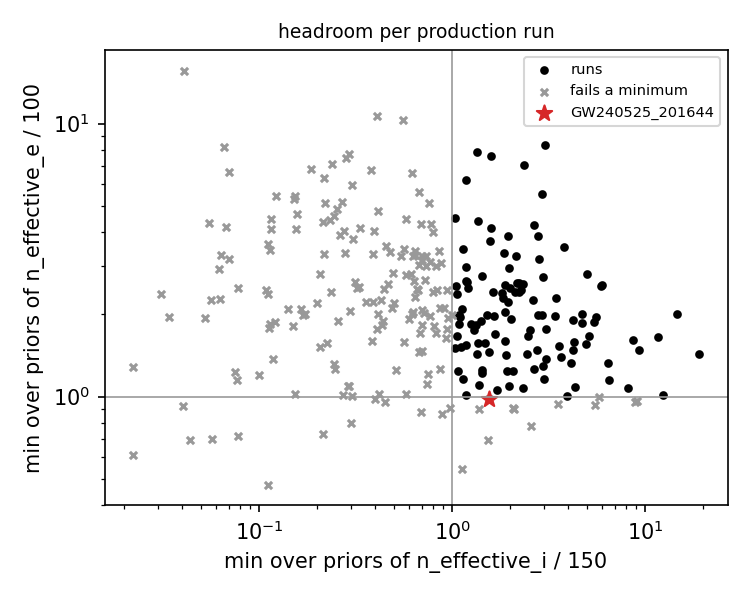
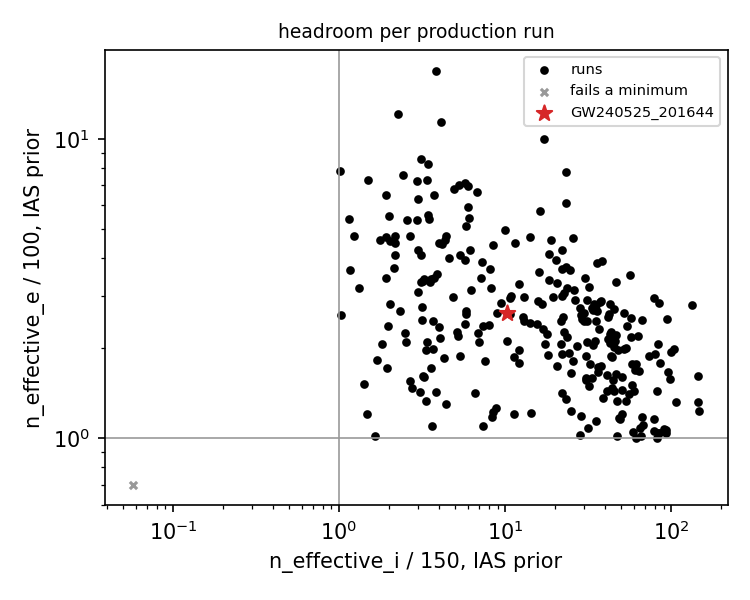
research: E2 report corrected, minima under the IAS prior only
Claude-Session: https://claude.ai/code/session_015Ha8CowgXaDTZuUXirm2SN

diff --git a/research/sample-headroom/2026-11-22_measurement.md b/research/sample-headroom/2026-11-22_measurement.md
@@ -1,48 +1,57 @@
 # How far fewer templates and fewer extrinsic samples could shrink dot-PE's rows
 
 This report measures how much room the production runs have to use fewer templates or fewer
-extrinsic samples, two ways to put fewer (intrinsic, extrinsic, phase) rows against dot-PE's row
-limit. Both are bounded by the minimum effective sample sizes the analysis demands, so the room
-is the factor by which those effective sample sizes exceed their minima.
+extrinsic samples, two ways to store fewer rows against dot-PE's limit on stored rows (rows and
+the limit are defined in Setup). Both are bounded by the minimum effective sample sizes the
+analysis demands, so the room is the factor by which those effective sample sizes exceed their
+minima.
 
-Code and data: the script ran on the login node on 2026-11-22 at 10:30, when branch `research`
-was at commit 96e02af (its `git log`; the run is logged in `research/progress.md`), and reads the
-production summaries of the 288 runs in o4b-pe-paper `dev/row_limit_check/row_limit.csv` (dot-PE
-commits as recorded per run in each paper repo's `docs/pe/dot_pe_versions.csv`). It supersedes
-no report.
+Code and data: `research/sample-headroom/headroom.py`, dot-PE branch `research`, commit 7d87c5d;
+it reads the production summaries of the 288 runs in o4b-pe-paper
+`dev/row_limit_check/row_limit.csv` (dot-PE commits as recorded per run in each paper repo's
+`docs/pe/dot_pe_versions.csv`). It supersedes the version of this report at commit
+[b4d7248](https://github.com/JonathanMushkin/dot-PE/blob/b4d7248/research/sample-headroom/2026-11-22_measurement.md).
 
 ## Question and answer
 
-The question: for each production run, what is H, the largest factor by which the rows could be
-reduced by fewer templates and fewer extrinsic samples while n_effective_i, the effective number
-of distinct templates, stays at least 150 and n_effective_e, the effective number of distinct
-extrinsic samples, at least 100, under both the IAS prior (dot-PE's production prior) and the
-LVK prior (the LVK spin and distance prior), if each scales in proportion to its number of
-samples?
+The question: for each production run, what is H, the largest factor by which its stored rows
+could be reduced by fewer templates and fewer extrinsic samples while n_effective_i, the effective
+number of distinct templates, stays at least 150 and n_effective_e, the effective number of
+distinct extrinsic samples, at least 100, under the IAS prior (dot-PE's production prior), if
+each scales in proportion to its number of samples? H and the other terms are defined in Setup.
 
-The answer: 175 of the 288 runs already fail one of the two minima and have no such room; for
-the other 113, H has a median of 4.7 (quartiles 2.7 and 7.7) and a maximum of 29.
+The answer: one of the 288 runs already fails a minimum; for the other 287, H has a median of 47
+(quartiles 15 and 86) and ranges from 1.7 to 375. Almost all of the room is in templates: the
+factor by which n_effective_i exceeds 150 (h_i) has median 19, the factor by which n_effective_e
+exceeds 100 (h_e) median 2.4. For GW240525_201644, H = 27, below R = 74, the factor by which its
+rows above the nominal cut exceed the row limit; 94 of the 287 runs have H ≥ 74.
 
 ## Setup
 
-A *row* is one (intrinsic, extrinsic, phase) combination; dot-PE keeps at most `size_limit` =
-1e7 rows. The IAS-prior values are read from each run's `summary_results.json`, the LVK-prior
-values from `summary_results_lvc.json` (present for all 288 runs). The minima 150 and 100 are
-`MIN_NEFF_I` and `MIN_NEFF_E` of o4b-pe-paper `src/o4a_pe_paper/pe_lib/failure_modes.py`.
+### Rows and the row limit
+
+A *row* is one (intrinsic, extrinsic, phase) combination: a template, an extrinsic sample (sky
+position, orientation, time), and one reference phase. For each row dot-PE computes b
+(`bestfit_lnlike`), its log-likelihood maximized over distance. dot-PE stores at most
+`size_limit` rows, those of highest b; every production run used `size_limit` = 1e7 (the code
+default is 1e6, `dot_pe/coherent_processing.py:35`). The *floor* is the lowest b among the stored rows.
 
 ### Effective sample sizes
 
-With p_r the normalized weight of row r, P_i the sum of p_r over the rows of template i and
-P_e over the rows of extrinsic sample e (`get_n_effective_total_i_e`,
-`dot_pe/base_sampler_free_sampling.py`),
+With p_r the posterior weight of row r under the IAS prior, normalized to sum to 1, P_t the sum
+of p_r over the rows of template t and P_x the sum over the rows of extrinsic sample x
+(`get_n_effective_total_i_e`, `dot_pe/base_sampler_free_sampling.py`),
 
-    n_effective_i = 1 / Σ_i P_i²,      n_effective_e = 1 / Σ_e P_e².
+    n_effective_i = 1 / Σ_t P_t²,      n_effective_e = 1 / Σ_x P_x².
+
+The values are read from each run's `summary_results.json`, the IAS-prior summary. The minima
+150 and 100 are `MIN_NEFF_I` and `MIN_NEFF_E` of o4b-pe-paper
+`src/o4a_pe_paper/pe_lib/failure_modes.py`, which applies them to the same file
+(`analyze_rundir`).
 
 ### Headroom ratios h_i and h_e
 
-With p running over the two priors,
-
-    h_i = min_p n_effective_i,p / 150,      h_e = min_p n_effective_e,p / 100.
+    h_i = n_effective_i / 150,      h_e = n_effective_e / 100.
 
 A run with h_i < 1 or h_e < 1 already fails a minimum.
 
@@ -54,15 +63,31 @@ For a run with h_i ≥ 1 and h_e ≥ 1,
 
 If n_effective_i scales in proportion to the number of templates and n_effective_e to the number
 of extrinsic samples, using h_i times fewer templates and h_e times fewer extrinsic samples
-reduces the rows by H and leaves both at their minima. Quoting H only for runs that pass both
-minima was decided after the results (`design.md`, design note of 2026-11-22 12:05); it does not
-change the definition.
+reduces the rows by H and leaves both at their minima. H is not defined for a run that fails a
+minimum (`design.md`, design note of 2026-11-22 12:05).
 
 ### Reduction needed, R
 
-For GW240525_201644 the rows above the nominal cut (its best fit over kept rows minus 20) number
-N̂(c) = 7.40e8 (E1, `research/rows-above-cut/2026-11-22_measurement.md`), so keeping all of
-them within `size_limit` needs a reduction R = N̂(c) / 1e7 = 74.
+The *nominal cut* c is the largest b over a run's stored rows minus 20: the rows dot-PE intends
+to keep are those with b ≥ c. For GW240525_201644, c = 16.379, and the estimated number of rows
+with b ≥ c is N̂(c) = 7.40e8 (measured in the report on rows above the cut,
+`research/rows-above-cut/2026-11-22_measurement.md`). Storing all of them within `size_limit`
+needs a reduction R = N̂(c) / 1e7 = 74. R is not measured for any other run.
+
+### Best-fit log-likelihood of a run
+
+Figure 2 orders runs by `bestfit_lnlike_max` of `summary_results.json`, the largest b over at most
+1e4 posterior draws (`dot_pe/inference.py:1568`, `:1590`). It is below the largest b over the
+stored rows (for GW240525_201644, 35.29 against 36.38; `research/progress.md`, 2026-11-22 10:27)
+and serves only to order runs by signal-to-noise ratio.
+
+### Choice of prior
+
+The minima are applied under the IAS prior only, as production does (`design.md`, design note of
+2026-11-23 06:52, made after the results on the user's decision that high effective sample sizes
+under the LVK prior are welcome but not a goal). Under the LVK prior (the LVK spin and distance
+prior, by reweighting) the effective sample sizes are lower: 175 runs fail a minimum there,
+174 of them only there.
 
 ## Results
 
@@ -70,40 +95,49 @@ How much headroom does each run have in n_effective_i and in n_effective_e?
 
 ![headroom ratios](review/fig1_headroom_i_e.png)
 
-Of the 288 runs, 163 have h_i < 1 (fewer than 150 effective templates under one prior), 25 have
-h_e < 1, and 13 both; 113 pass both. GW240525_201644 run_2 has h_i = 1.5 and h_e = 0.98: its
-n_effective_e under the LVK prior is 98.
+One run fails: GW241011_233834, with n_effective_i 8.6 and n_effective_e 70 (best-fit
+log-likelihood 628). The other 287 have h_i between 1.01 and 147 (median 19) and h_e between
+1.00 and 16.9 (median 2.4). Fewer extrinsic samples could therefore reduce the rows by a median
+factor of only 2.4; most of the room is in templates. GW240525_201644 has h_i = 10.2 and
+h_e = 2.6.
 
-What is H, the row reduction the minima allow, against the best-fit log-likelihood, the largest b
-over the posterior draws (`bestfit_lnlike_max`)?
+What is H against the best-fit log-likelihood, and how does it compare with the reduction
+GW240525_201644 needs?
 
 ![H against best fit](review/fig2_H_vs_best.png)
 
-For the 113 runs that pass both minima, H is between 1.2 and 29, median 4.7. Failing runs are
-drawn as grey crosses at max(1, h_i) × max(1, h_e), which is not a reduction they could make. GW240525_201644 fails the n_effective_e minimum, so it has no room; even
-the largest H of any run, 29, is below the R = 74 this event needs.
+H is largest at low signal-to-noise ratio: for best-fit log-likelihood below 50 its median is 70
+(64 of 137 runs have H ≥ 74), for 50 to 100 it is 36 (29 of 112), and above 100 it is 17 (1 of
+38). GW240525_201644 has H = 27, below its R = 74: under the proportional assumption, fewer
+samples alone cannot bring its stored rows down to the nominal cut.
+
+## Observations
+
+Not part of this measurement's chain: H is largest at low best-fit log-likelihood, and so is the
+posterior mass dot-PE's stored rows miss, as measured in another study. For each event the paper repos also have a reference posterior
+from cogwheel, a sampler that does not store a fixed number of rows. The median fraction of that
+posterior's mass at b below dot-PE's floor is 0.75 for best-fit log-likelihood 30 to 40, 0.10 for
+75 to 100 and 0 above 200 (o4b-pe-paper `dev/row_limit_check/HANDOFF_dotpe_row_limit.md`).
 
 ## Limitations
 
 - H assumes n_effective_i scales with the number of templates and n_effective_e with the number
-  of extrinsic samples. The
-  one test available contradicts it: GW240525_201644 with the first eighth of each bank had
-  n_effective_i 363 instead of 1535 under the IAS prior (4.2 times lower for 8 times fewer
-  templates) and n_effective_e 329 instead of 262, because the floor (the lowest kept b) moved
-  too (o4b-pe-paper `dev/row_limit_check/gw240525_runs.md`).
+  of extrinsic samples. The one test available does not follow it: GW240525_201644 with the
+  first eighth of each bank had n_effective_i 363 instead of 1535 (4.2 times lower for 8 times
+  fewer templates) and n_effective_e 329 instead of 262 (o4b-pe-paper
+  `dev/row_limit_check/gw240525_runs.md`). In that test the floor also moved down, from 24.35 to
+  21.19, because the same 1e7 rows were spread over fewer templates; the test therefore mixes
+  the effect of fewer templates with that of a lower floor. Taken at face value it suggests H
+  underestimates the room, but the direction is not established.
 - H multiplies h_i and h_e as if independent; the same test shows they are not.
+- R is measured for one event only, so whether any of the 94 runs with H ≥ 74 has enough room
+  for its own R is not known.
 - The summaries are read as they are on disk. Every `summary_results.json` was written after the
-  cross-bank n_effective fix (dot-PE 2403731, 2026-07-13 13:44); the earliest, 11 minutes after
-  it, belongs to a run made with an older commit, so its summary was rewritten later by a dot-PE
-  version not recorded in it.
-- The x-axis of figure 2 is `bestfit_lnlike_max` of `summary_results.json`, the maximum over the
-  1e4 posterior draws, which is below the best fit over rows; it only orders runs by
-  signal-to-noise ratio.
-- R is measured for one event only (E1).
+  cross-bank n_effective fix (dot-PE 2403731, 2026-07-13 13:44).
 
 ## Reproduction
 
     python research/sample-headroom/headroom.py     # env o4a-pe, login node, seconds
 
-Output: `artifacts/research/sample-headroom/headroom.csv` and `research/sample-headroom/review/`.
-
+Output: `artifacts/research/sample-headroom/headroom.csv` (IAS- and LVK-prior values per run) and
+`research/sample-headroom/review/`.

diff --git a/research/progress.md b/research/progress.md
@@ -52,3 +52,4 @@ One row per decision, design approval, gate outcome or LSF job. Times are local 
 | 2026-11-23 04:21 | LSF 563110 failed; 563257 | 563110 collected no tests: the worktree was under /tmp, which compute nodes do not see. Worktree moved to `artifacts/research/wt_size_limit` (git-ignored); resubmitted as 563257. |
 | 2026-11-23 04:24 | E3 report | Rewritten report: reviewer 1 FIX ×2 then 3 wording items applied; reviewer 2 PASS. Final. |
 - 2026-11-23 06:28 E3 report: rules numbered 1-4 and referred to by number; rule 3 (LVK-protected) defined with formula before use; figure legends renumbered (analyze_sweep.py rerun, login node, 7 s). No numbers changed.
+| 2026-11-23 06:57 | E2 correction | User query: 175 failing runs suspicious. Cause: E2 design applied minima under IAS and LVK priors; production applies them under IAS only (failure_modes.analyze_rundir). User decision: LVK n_effective not a goal. Design note 06:52; headroom.py 55dbe73, figure 2 fix 7d87c5d; report rewritten (1 failing run, median H 47, 94 runs H >= 74, GW240525 H = 27 < 74). Both reviewers FIX twice, all items fixed; floor 24.35 -> 21.19 confirmed against HANDOFF table. |

diff --git a/research/README.md b/research/README.md
@@ -19,7 +19,7 @@ None yet.
 |---|---|---|---|---|
 | E0 | `row-limit/` | bug fix, problem | ΔW, cogwheel minus dot-PE posterior mass below the production floor | report: `2026-11-22_problem.md` |
 | E1 | `rows-above-cut/` | measurement | How many rows of GW240525_201644 run_2 lie above the nominal cut? | report: `2026-11-22_measurement.md` (7.4e8) |
-| E2 | `sample-headroom/` | measurement | By how much could fewer templates and fewer extrinsic samples shrink the rows? | run; report in review, needs E1 |
+| E2 | `sample-headroom/` | measurement | By how much could fewer templates and fewer extrinsic samples shrink the rows? | report: `2026-11-22_measurement.md` (IAS prior: 1 of 288 runs fails a minimum; median H 47; GW240525 H = 27 < R = 74) |
 | E3 | `weight-thinning/` | feature, correctness | Does each thinning rule pass the acceptance test at the production row budget? | design approved, needs E1 |
 | E4 | `phase-marginalization/` | measurement | How many fewer rows does marginalizing over phase leave? | report: `2026-11-22_measurement.md` (ρ(c) = 9.2) |
 | E5 | `row-limit/` | bug fix, solution | E0's test on the chosen fix | planned, needs E3 |
